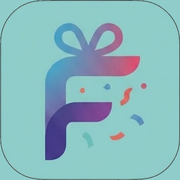
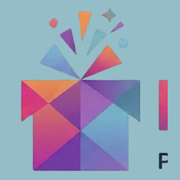
Use the Fetifye lockup with a transparent background on brand blue.

diff --git a/web/src/app/page.tsx b/web/src/app/page.tsx
@@ -19,7 +19,7 @@ export default function HomePage() {
     <div className="min-h-screen">
       <MarketingNav />
       <main className="mx-auto max-w-6xl px-6 pb-24 md:px-10">
-        <section className="grid items-center gap-12 py-10 md:grid-cols-[1.1fr_0.9fr] md:py-16">
+        <section className="flex flex-col gap-10 py-10 lg:grid lg:grid-cols-2 lg:items-center lg:gap-12 lg:py-16">
           <div>
             <p className="text-xs uppercase tracking-[0.22em] text-muted">
               {brand.name} · Web + iPhone
@@ -44,12 +44,8 @@ export default function HomePage() {
               {brand.name} on the web and on iPhone — one event, everywhere.
             </p>
           </div>
-          <div className="relative flex justify-center">
-            <img
-              src={brand.icon}
-              alt={`${brand.name} app icon`}
-              className="h-auto w-full max-w-sm rounded-[2.4rem] shadow-[0_24px_60px_rgba(107,76,255,0.25)]"
-            />
+          <div className="relative w-full min-w-0">
+            <BrandLockup priority />
           </div>
         </section>
 
@@ -65,19 +61,19 @@ export default function HomePage() {
           </div>
         </section>
 
-        <section className="mt-8 rounded-[2rem] bg-black px-8 py-12 text-paper">
+        <section className="mt-8 rounded-[2rem] px-8 py-12">
           <div className="mx-auto max-w-2xl">
             <BrandLockup />
           </div>
           <div className="mt-10 grid gap-6 md:grid-cols-2">
             <div>
-              <h2 className="text-3xl text-paper">Same event. Phone and browser.</h2>
-              <p className="mt-3 text-sm text-paper/70">
+              <h2 className="text-3xl">Same event. Phone and browser.</h2>
+              <p className="mt-3 text-sm text-muted">
                 Native iOS and this web app share one schema: owners, editors, viewers,
                 entitlements, and the workspace itself.
               </p>
             </div>
-            <div className="text-sm text-paper/80">
+            <div className="text-sm text-muted">
               <p>Apple / email sign-in · granular access · full account deletion</p>
               <p className="mt-2">Realtime collaboration is wired for Supabase when you connect it.</p>
             </div>

diff --git a/ios/InABox/Views.swift b/ios/InABox/Views.swift
@@ -5,14 +5,14 @@ struct WelcomeView: View {
 
     var body: some View {
         ZStack {
-            Color.black.ignoresSafeArea()
+            Color(hex: "#95BDC7").ignoresSafeArea()
             VStack(alignment: .leading, spacing: 24) {
                 Image("BrandLogo")
                     .resizable()
                     .scaledToFit()
                     .frame(maxWidth: 320)
                 Text("The same workspace as the website: wizard, timeline, budget, and guests.")
-                    .foregroundStyle(.white.opacity(0.7))
+                    .foregroundStyle(Color(hex: "#2F4A52"))
                 Spacer()
                 Button("Open Fetifye") {
                     store.signIn()
@@ -53,16 +53,25 @@ struct HomeView: View {
                 }
             }
         }
-        .navigationTitle(Brand.name)
-        .navigationDestination(for: EventRecord.self) { event in
-            EventHubView(eventId: event.id)
-        }
+        .navigationBarTitleDisplayMode(.inline)
         .toolbar {
+            ToolbarItem(placement: .topBarLeading) {
+                Image("BrandLogo")
+                    .resizable()
+                    .scaledToFit()
+                    .frame(height: 28)
+            }
             ToolbarItem(placement: .topBarTrailing) {
                 Button("Delete account") {
                     store.deleteAll()
                 }
             }
+        }
+        .toolbarBackground(Color(hex: "#95BDC7"), for: .navigationBar)
+        .toolbarBackground(.visible, for: .navigationBar)
+        .toolbarColorScheme(.light, for: .navigationBar)
+        .navigationDestination(for: EventRecord.self) { event in
+            EventHubView(eventId: event.id)
         }
     }
 }

diff --git a/web/src/components/brand.tsx b/web/src/components/brand.tsx
@@ -1,34 +1,53 @@
 import Image from "next/image";
 import { brand } from "@/lib/brand";
 
-export function BrandMark({
-  size = 36,
+export function BrandLockup({
   className = "",
+  priority = false,
+  fillWidth = true,
 }: {
-  size?: number;
   className?: string;
+  priority?: boolean;
+  fillWidth?: boolean;
 }) {
-  return (
-    <Image
-      src={brand.icon}
-      alt=""
-      width={size}
-      height={size}
-      className={`rounded-[22%] ${className}`}
-      priority
-    />
-  );
-}
+  if (fillWidth) {
+    return (
+      <span className={`relative block aspect-[985/439] w-full ${className}`}>
+        <Image
+          src={brand.logo}
+          alt={`${brand.name} — ${brand.tagline}`}
+          fill
+          unoptimized
+          className="object-contain"
+          sizes="(min-width: 768px) 40vw, 90vw"
+          priority={priority}
+        />
+      </span>
+    );
+  }
 
-export function BrandLockup({ className = "" }: { className?: string }) {
   return (
     <Image
       src={brand.logo}
       alt={`${brand.name} — ${brand.tagline}`}
       width={973}
       height={427}
-      className={`h-auto w-full ${className}`}
-      priority
+      className={`object-contain ${className}`}
+      sizes="240px"
+      unoptimized
+      priority={priority}
     />
+  );
+}
+
+export function BrandBar({ compact = false }: { compact?: boolean }) {
+  return (
+    <span className="inline-flex items-center">
+      <BrandLockup
+        fillWidth={false}
+        className={compact ? "h-8 w-auto max-w-[168px]" : "h-10 w-auto max-w-[220px]"}
+        priority
+      />
+    </span>
   );
 }

diff --git a/web/src/components/nav.tsx b/web/src/components/nav.tsx
@@ -2,18 +2,16 @@
 
 import Link from "next/link";
 import { usePathname, useRouter } from "next/navigation";
-import { brand } from "@/lib/brand";
 import { useAppStore } from "@/lib/store";
-import { BrandMark } from "./brand";
+import { BrandBar } from "./brand";
 import { Button } from "./ui";
 
 export function MarketingNav() {
   const user = useAppStore((s) => s.currentUser);
   return (
     <header className="flex items-center justify-between px-6 py-5 md:px-10">
-      <Link href="/" className="flex items-center gap-3">
-        <BrandMark size={40} />
-        <span className="text-sm font-medium tracking-wide">{brand.name}</span>
+      <Link href="/" className="flex items-center">
+        <BrandBar />
       </Link>
       <nav className="hidden items-center gap-8 text-sm text-muted md:flex">
         <Link href="/#modules">Modules</Link>
@@ -48,9 +46,8 @@ export function AppHeader() {
 
   return (
     <header className="flex items-center justify-between border-b border-[var(--line)] px-4 py-3 md:px-6">
-      <Link href="/app" className="flex items-center gap-2 text-sm font-medium">
-        <BrandMark size={32} />
-        {brand.name}
+      <Link href="/app" className="flex items-center">
+        <BrandBar compact />
       </Link>
       <div className="flex items-center gap-3 text-sm">
         <Link

diff --git a/web/src/lib/brand.ts b/web/src/lib/brand.ts
@@ -3,8 +3,9 @@ export const brand = {
   tagline: "Party in a box",
   description:
     "Turn a rough idea into a fully planned, ready-to-run event — on the web and on iPhone.",
-  logo: "/brand/logo.png",
-  icon: "/brand/app-icon.png",
+  logo: "/brand/logo.png?v=4",
+  mark: "/brand/logo-mark.png?v=4",
+  appCover: "/brand/app-icon.png",
 };
 
 export function productName() {

diff --git a/web/src/app/globals.css b/web/src/app/globals.css
@@ -1,15 +1,15 @@
 @import "tailwindcss";
 
 :root {
-  --paper: #e7f4f3;
-  --paper-2: #d5eceb;
+  --paper: #95bdc7;
+  --paper-2: #84aeb9;
   --ink: #12151c;
-  --ink-soft: #4d5a66;
+  --ink-soft: #2f4a52;
   --line: rgba(18, 21, 28, 0.12);
   --accent: #6b4cff;
   --accent-2: #e25aa8;
   --gold: #7fd4cf;
-  --mint: #90ccca;
+  --mint: #95bdc7;
 }
 
 @theme inline {

diff --git a/web/src/app/layout.tsx b/web/src/app/layout.tsx
@@ -18,8 +18,8 @@ export const metadata: Metadata = {
   title: `${brand.name} — ${brand.tagline}`,
   description: brand.description,
   icons: {
-    icon: brand.icon,
-    apple: "/brand/apple-touch-icon.png",
+    icon: brand.mark,
+    apple: brand.mark,
   },
 };
 
